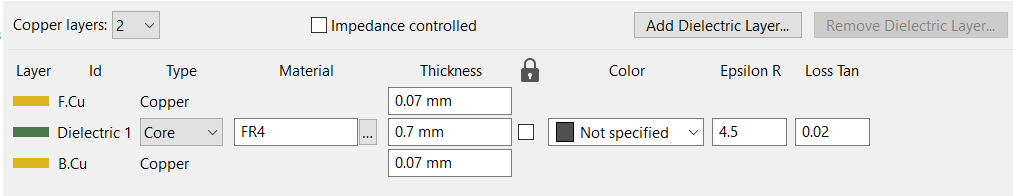
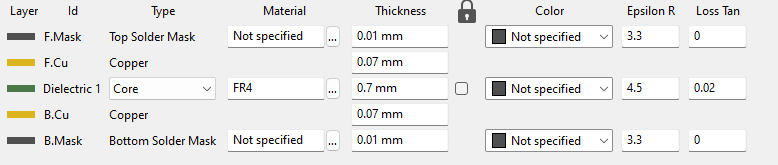
Updated ReadmMe Images and ReadMe Descriptions

diff --git a/README.md b/README.md
@@ -23,12 +23,8 @@ They were created with a custom component consistant of 2 parts.
 <img src="./ReadMeImages/DistanceCalculations.png" width="55%">   
   
 ### ::: Layers of the PCB :::  
-**Three layers to the PCB Design**  
+**Five (F.Mask and B.Mask are Negative) layers to the PCB Design**  
 <img src="./ReadMeImages/PCBLayers.png" width="60%">  
-  
-### ::: Gerber Plot Settings :::  
-**The Settings of the Gerber files created in this repository using [Plot]**  
-<img src="./ReadMeImages/GerberOutput.png" width="60%">
 
 
 ### ::: Required Programs :::  
